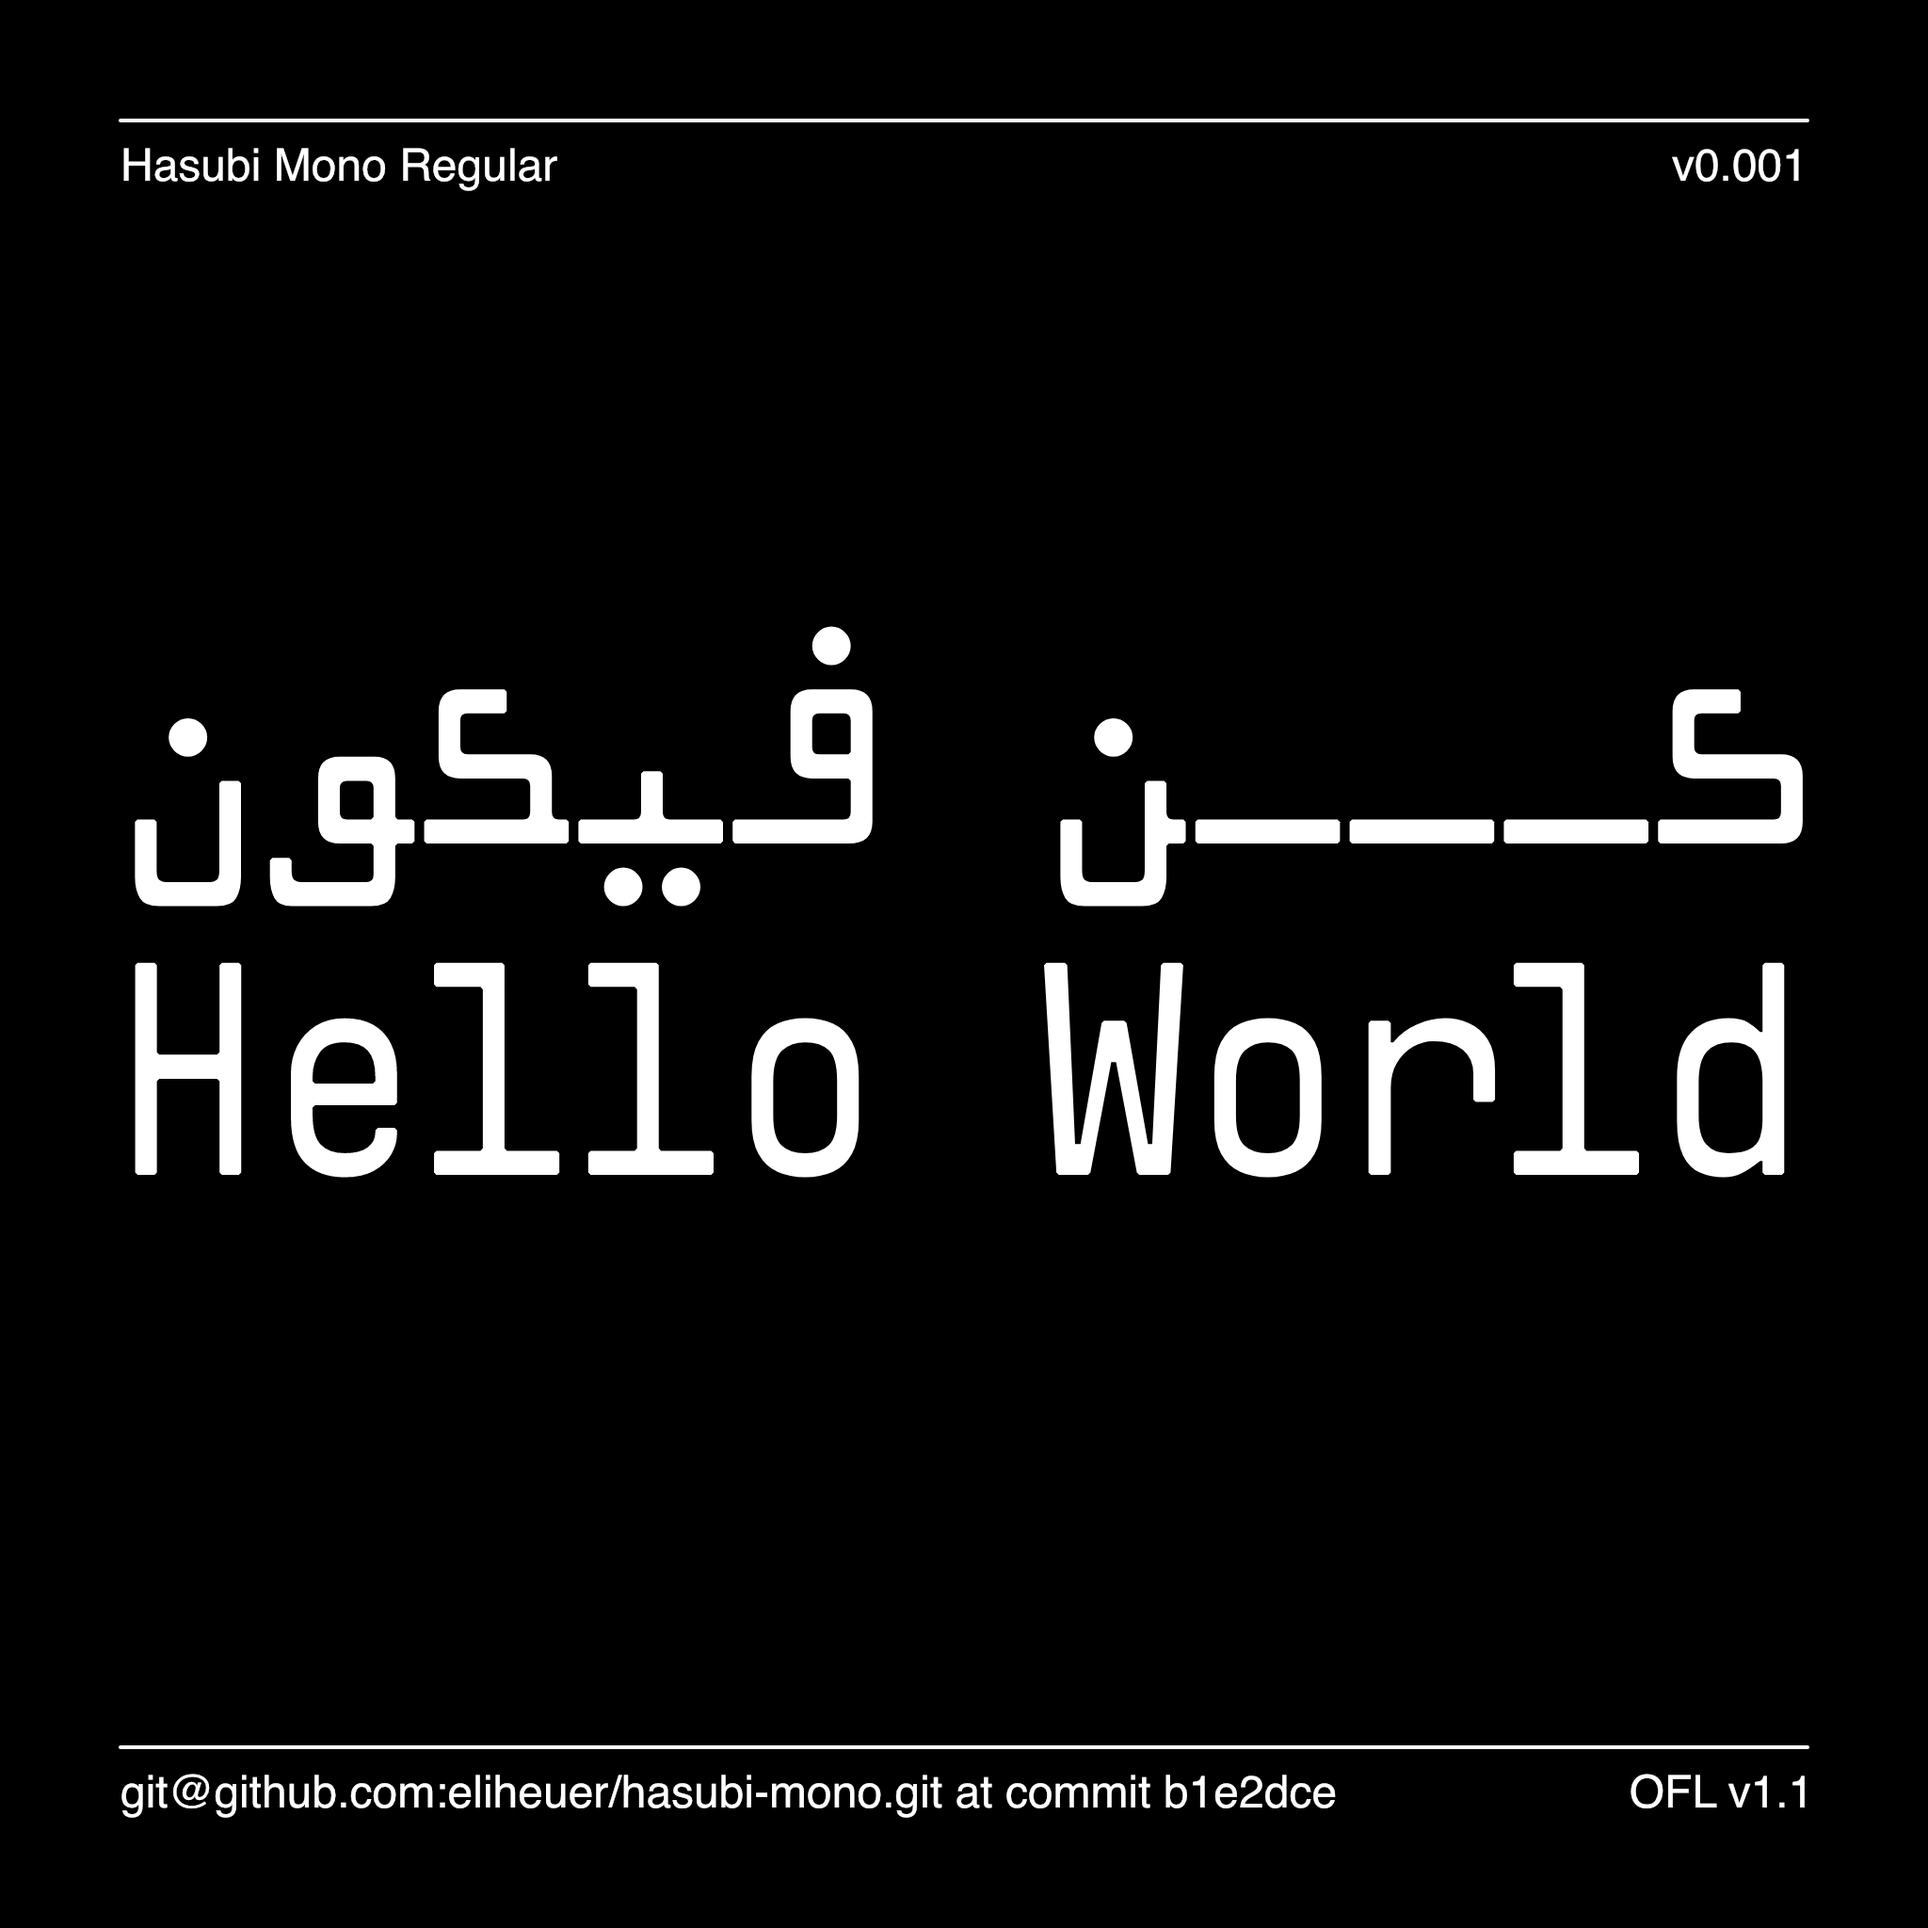
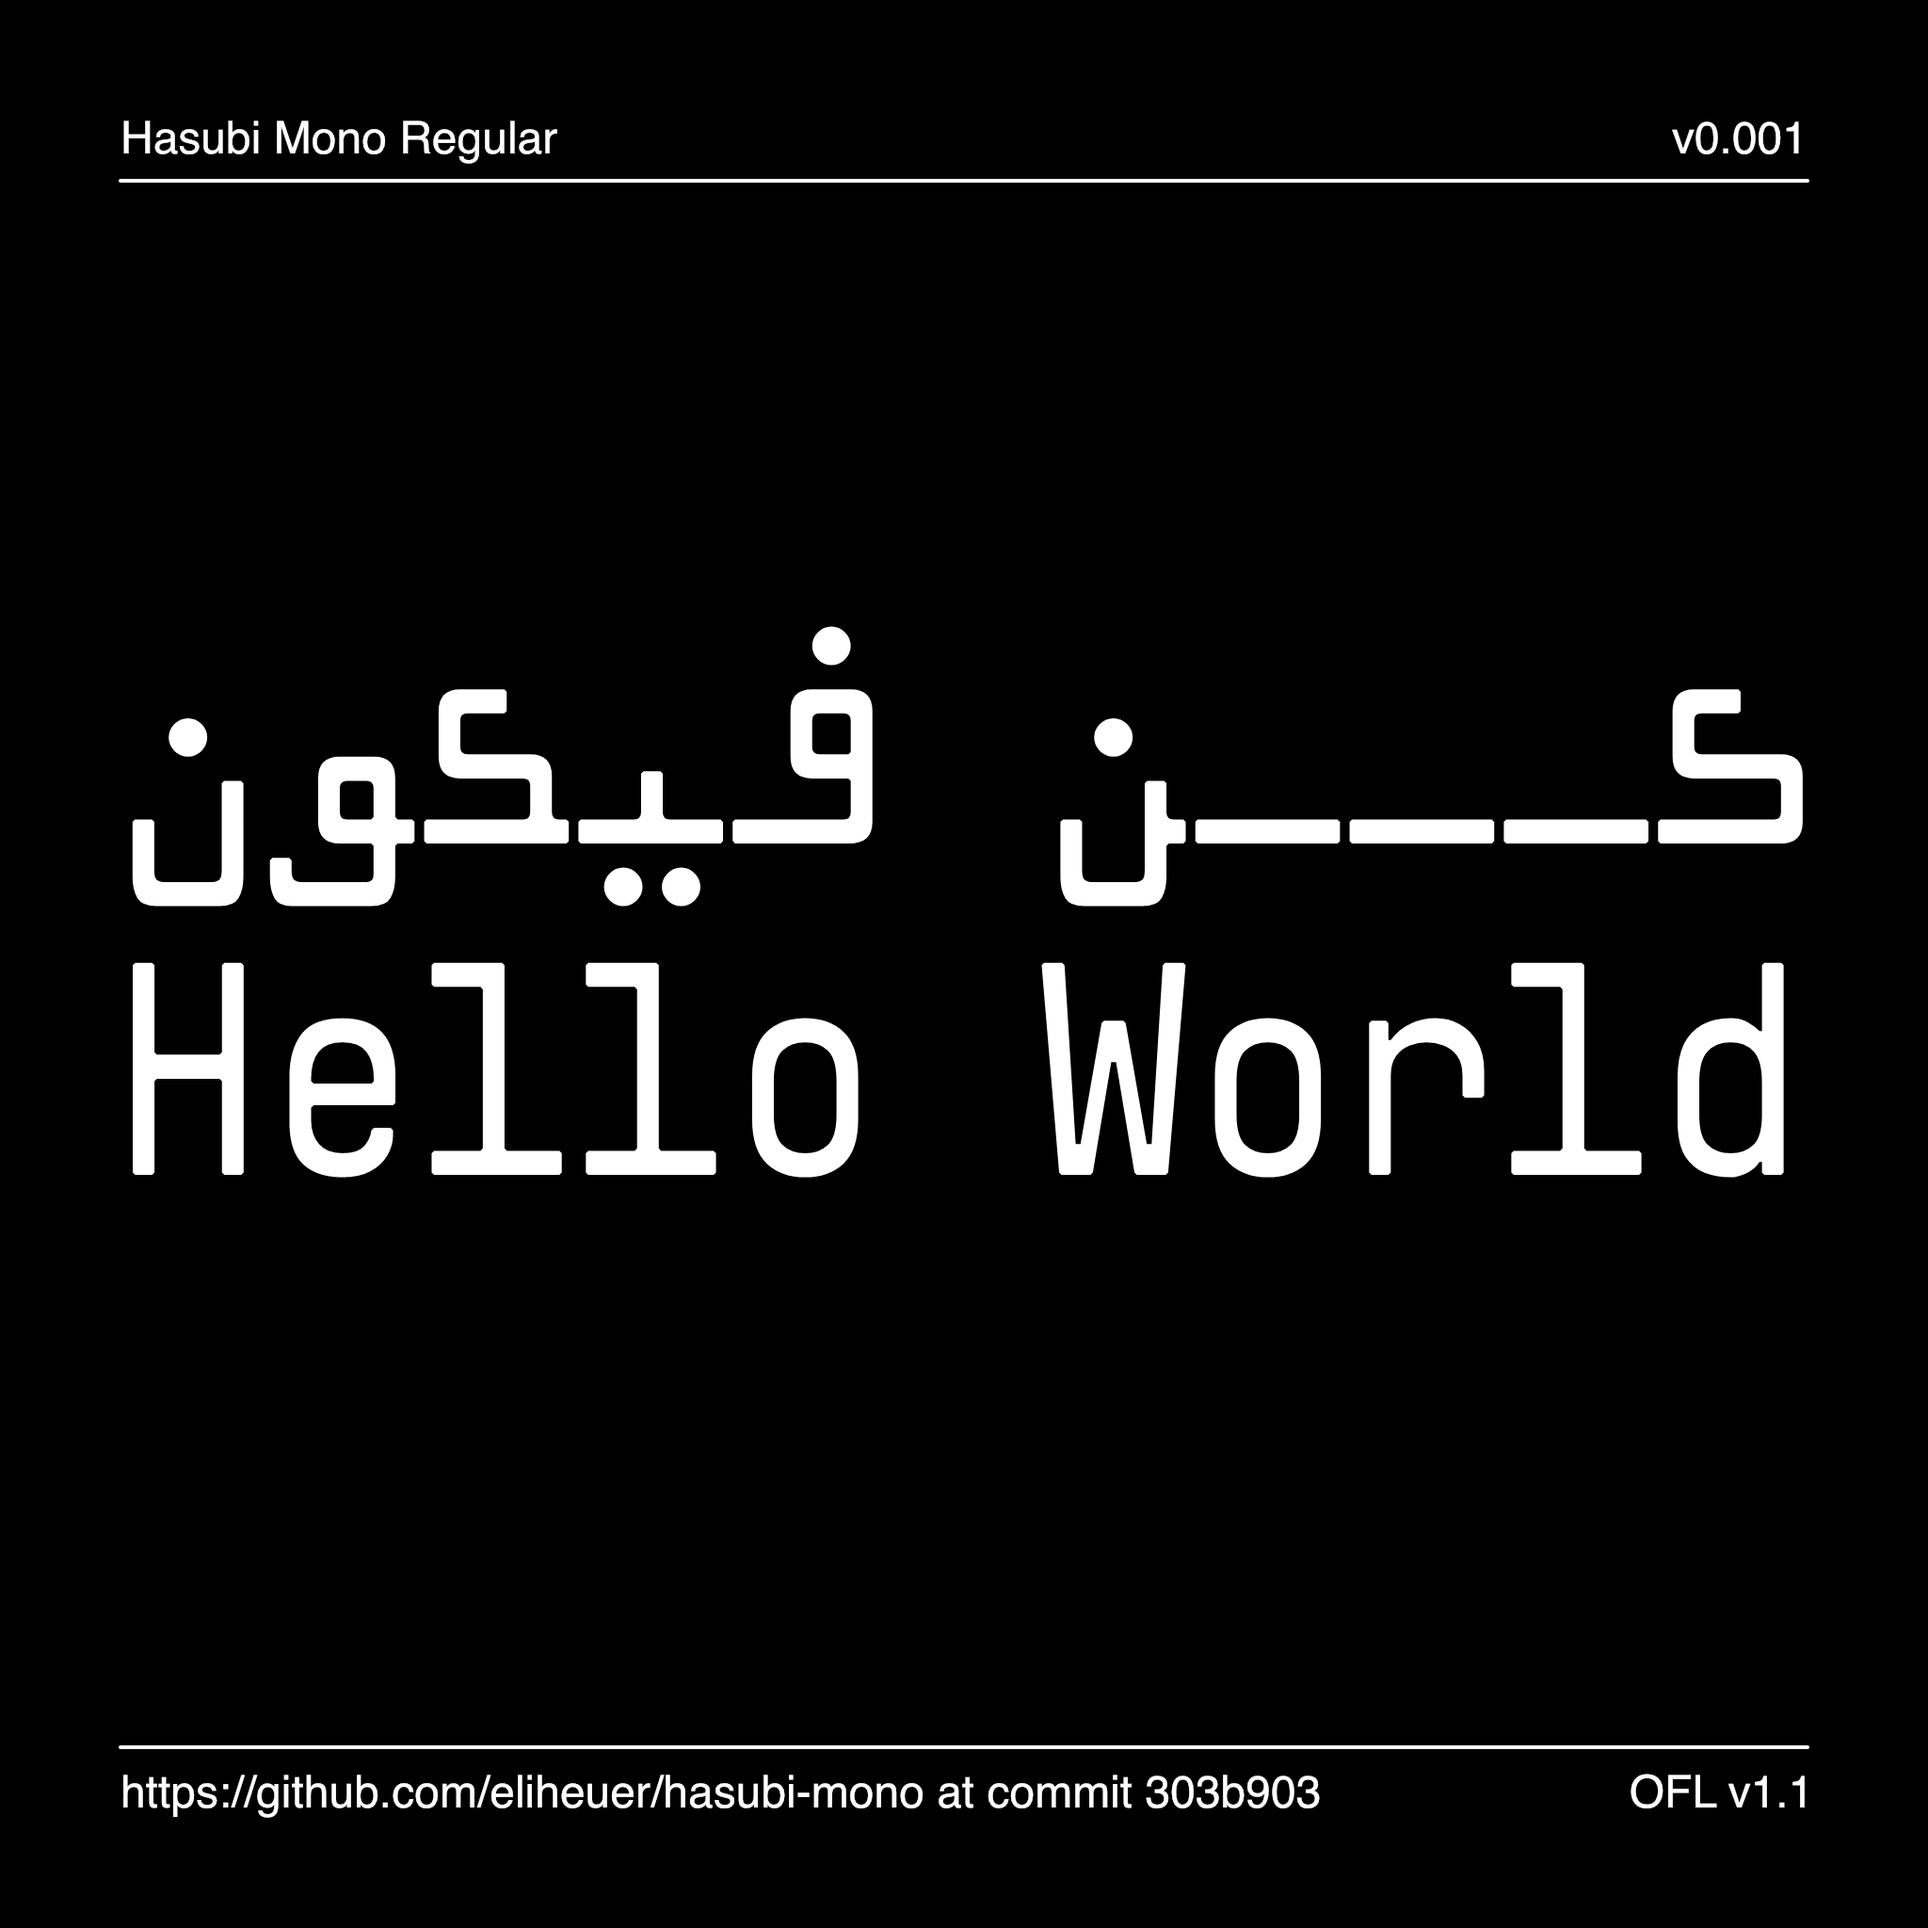
Add new and update old DrawBot images

diff --git a/documentation/square-image-002.py b/documentation/square-image-002.py
@@ -20,11 +20,12 @@ FONT_PATH = "fonts/Hasubi-Mono[wght].ttf"
 FONT_LICENSE = "OFL v1.1"
 AUXILIARY_FONT = "Helvetica"
 AUXILIARY_FONT_SIZE = 48
-BIG_TEXT = "كـــن فيكون"
-BIG_TEXT_B = "Hello World"
-BIG_TEXT_FONT_SIZE = 1024/3.2
-BIG_TEXT_SIDE_MARGIN = MARGIN * 15
-BIG_TEXT_BOTTOM_MARGIN = MARGIN * 9
+BIG_TEXT = "Hello World"
+BIG_TEXT_B = "كـــن فيكون"
+BIG_TEXT_FONT_SIZE = 140
+BIG_TEXT_SIDE_MARGIN = MARGIN * 8
+BIG_TEXT_BOTTOM_MARGIN = MARGIN * 13.25
+TRACKING = 141
 GRID_VIEW = False # Change this to "True" for a grid overlay
 
 # Handel the "--output" flag
@@ -39,16 +40,17 @@ args = parser.parse_args()
 ttFont = TTFont(FONT_PATH)
 
 # Constants that are worked out dynamically
-MY_URL = subprocess.check_output("git remote get-url origin", shell=True).decode()
+#MY_URL = subprocess.check_output("git remote get-url origin", shell=True).decode()
 MY_URL = "https://github.com/eliheuer/hasubi-mono "
 MY_HASH = subprocess.check_output("git rev-parse --short HEAD", shell=True).decode()
 FONT_NAME = ttFont["name"].getDebugName(4)
+FONT_NAME = "Hasubi Mono: Weight Axis Full Range [wght]"
 FONT_VERSION = "v%s" % floatToFixedToStr(ttFont["head"].fontRevision, 16)
 
 
 # Draws a grid
 def grid():
-    stroke(1, 0, 0, 0.75)
+    stroke(1, 0, 0, 0.5)
     strokeWidth(2)
     STEP_X, STEP_Y = 0, 0
     INCREMENT_X, INCREMENT_Y = MARGIN / 2, MARGIN / 2
@@ -95,8 +97,18 @@ def draw_main_text():
     # TODO: This should be done automatically when drawbot-skia
     # has support for textBox() and FormattedString
     #text(BIG_TEXT, ((WIDTH / 2) - MARGIN * 4.75, (HEIGHT / 2) - MARGIN * 2.5))
-    text(BIG_TEXT, (BIG_TEXT_SIDE_MARGIN, BIG_TEXT_BOTTOM_MARGIN))
-    text(BIG_TEXT_B, (BIG_TEXT_SIDE_MARGIN - 1802, BIG_TEXT_BOTTOM_MARGIN - MARGIN*2.75))
+    font_var = 400
+    track = 128
+    for i in range(11):
+        fontVariations(wght = font_var)
+        text(BIG_TEXT, (BIG_TEXT_SIDE_MARGIN+115, BIG_TEXT_BOTTOM_MARGIN-(i*TRACKING)))
+        print("font_var = ", font_var)
+        font_var += 50
+    font_var = 400
+    for i in range(11):
+        fontVariations(wght = font_var)
+        text(BIG_TEXT_B, (BIG_TEXT_SIDE_MARGIN-117, BIG_TEXT_BOTTOM_MARGIN-(i*TRACKING)))
+        font_var += 50
 
 
 # Divider lines
@@ -125,6 +137,11 @@ def draw_auxiliary_text():
     text(FONT_VERSION, POS_TOP_RIGHT, align="right")
     text(URL_AND_HASH, POS_BOTTOM_LEFT, align="left")
     text(FONT_LICENSE, POS_BOTTOM_RIGHT, align="right")
+
+    font_weights = ["400","450","500","550","600","650","700","750","800","850","900","950"]
+    for i in range(11):
+        text(font_weights[i], (BIG_TEXT_SIDE_MARGIN-41, BIG_TEXT_BOTTOM_MARGIN-(i*TRACKING)))
+
 
 
 # Build and save the image
